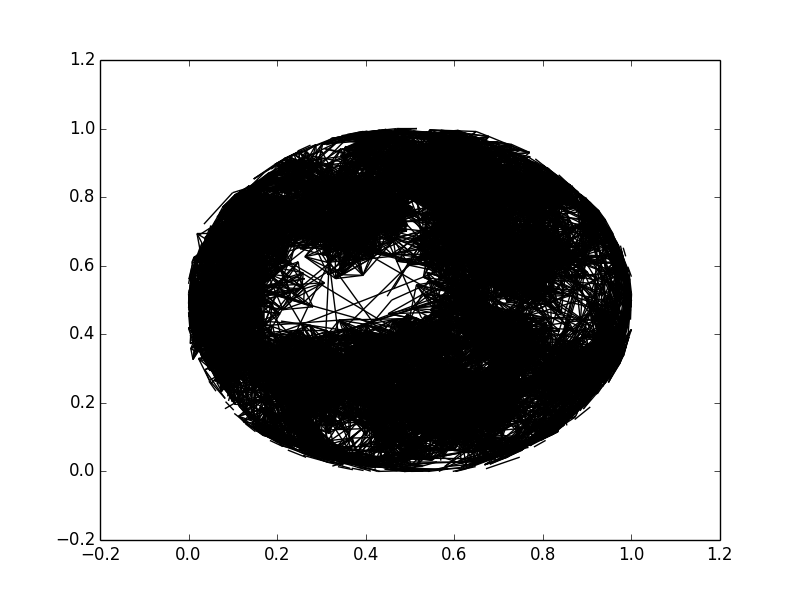
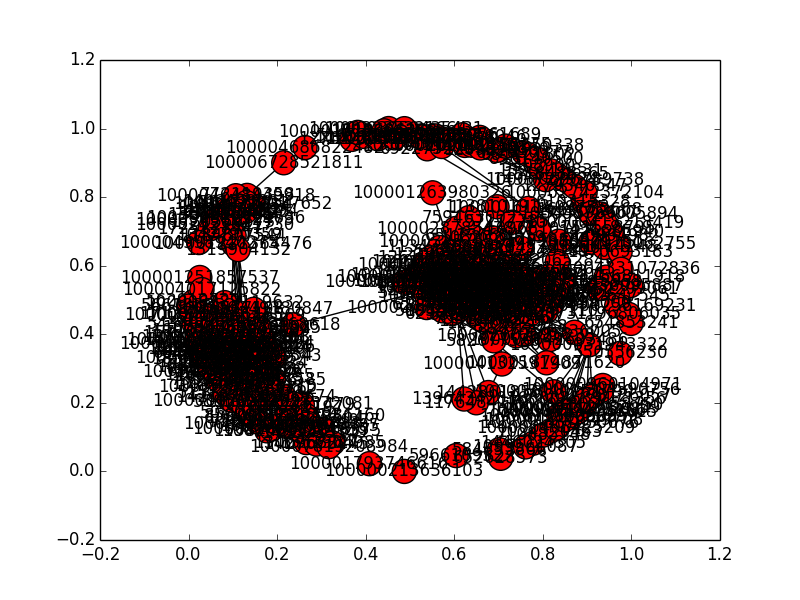
d3js branch

Changed region(s): [[0.1562, 0.18, 0.875, 0.81]]

diff --git a/friends/views.py b/friends/views.py
@@ -64,8 +64,8 @@ def index(request):
 	print_execution_time('building local graph', start, end)
 
 	# TODO Test building graph
-	networkx.draw_networkx_edges(friends_graph, networkx.spring_layout(friends_graph))
-	plt.savefig("graph.png")
+	# networkx.draw_networkx(friends_graph, networkx.spring_layout(friends_graph, dim=2))
+	# plt.savefig("graph.png")
 
 	# Find clusters of friends
 	start = time.time()
@@ -73,8 +73,21 @@ def index(request):
 	# Assign each friend to a cluster in the partition
 	friends_partition = community.best_partition(friends_graph)
 
+	# Drawing graph
+	size = float(len(set(friends_partition.values())))
+	pos = networkx.spring_layout(friends_graph)
+	count = 0.
+	for com in set(friends_partition.values()) :
+	    count = count + 1.
+	    list_nodes = [nodes for nodes in friends_partition.keys()
+	                                if friends_partition[nodes] == com]
+	    networkx.draw_networkx_nodes(friends_graph, pos, list_nodes, node_size = 20,
+	                            node_color = str(count / size))
+	networkx.draw_networkx_edges(friends_graph,pos, alpha=0.5)
+	plt.savefig("graph2.png")
+
 	# Convert partition assignments into a list of clusters (lists) of people
-	friends_by_cluster = {}	
+	friends_by_cluster = {}
 	[friends_by_cluster.setdefault(cluster_number, []).append(friend_ID) for friend_ID, cluster_number in friends_partition.iteritems()]
 	clusters = friends_by_cluster.values()
 
@@ -90,6 +103,7 @@ def index(request):
 	# JSON
 	d = json_graph.node_link_data(friends_graph)
 	json.dump(d, open('force.json', 'w'))
+	json.dump(named_clusters, open('namedClusters.json', 'w'))
 
 	# Render page with friend information
 	return render(request, 'friends/index.html', {'friends': friends, 'clusters': named_clusters})
